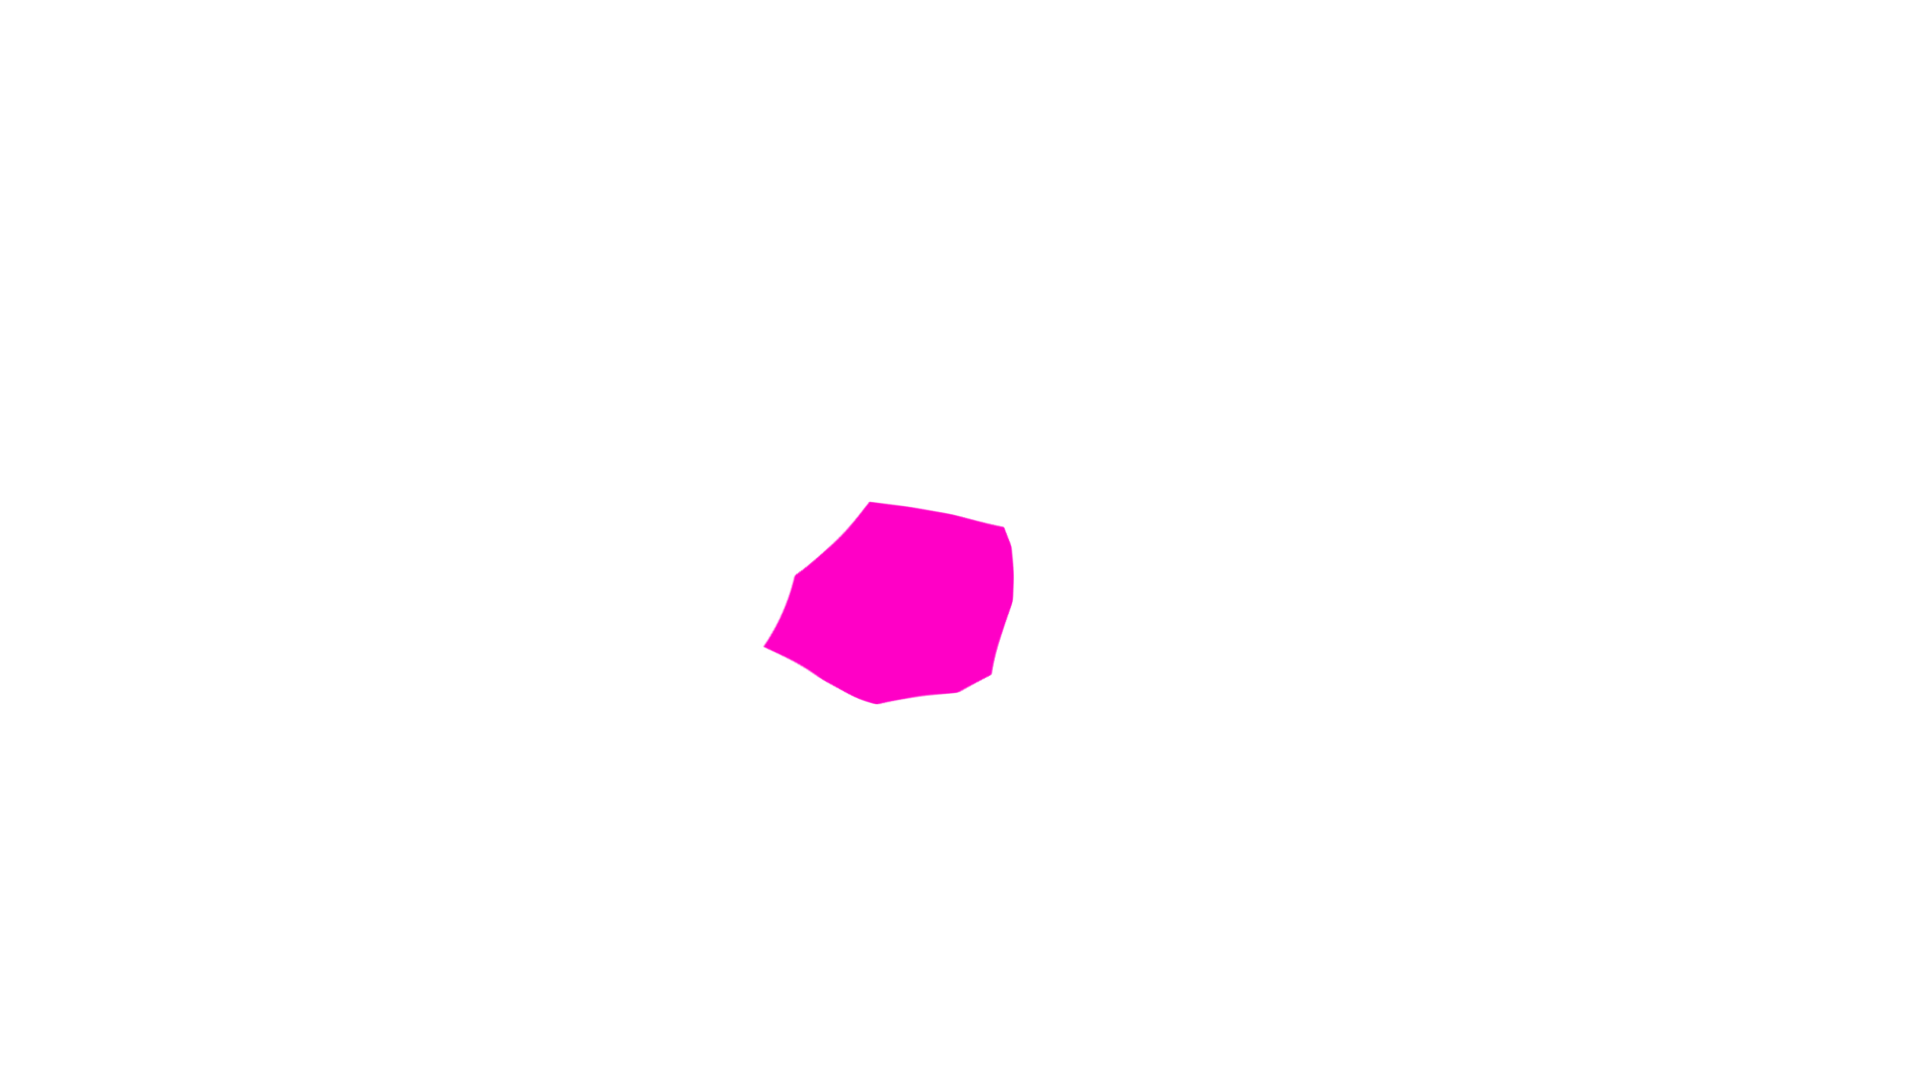
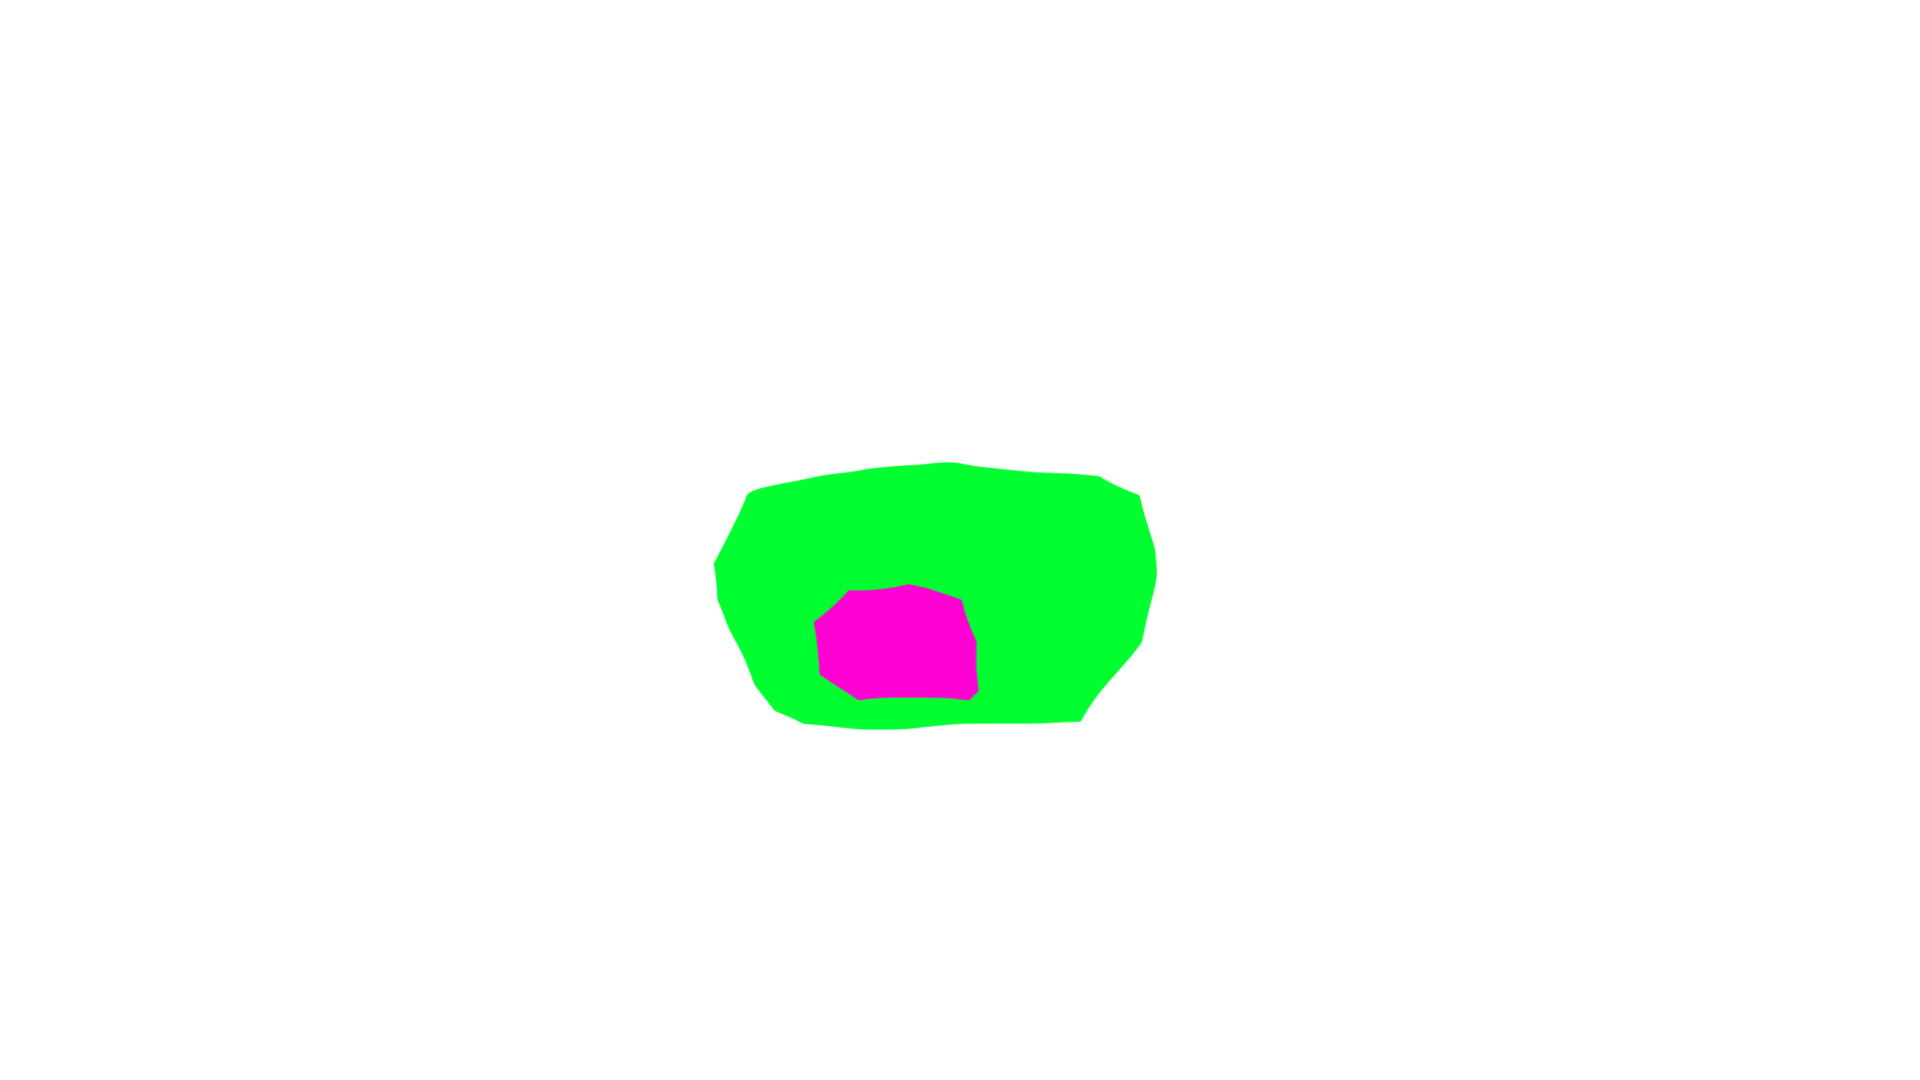
bug fixes for food scan audio

Changed region(s): [[0.375, 0.4278, 0.625, 0.7028]]

diff --git a/Assets/Eli/Scripts/FoodScan.cs b/Assets/Eli/Scripts/FoodScan.cs
@@ -231,7 +231,7 @@ public class FoodScan : MonoBehaviour
             return;
         }
 
-        if (hit.evidenceID == activeRegion.evidenceID)
+        if (IsSameRegion(hit, activeRegion))
         {
             // Same region — keep running.
             switchTimer = 0f;
@@ -270,7 +270,7 @@ public class FoodScan : MonoBehaviour
 
     private void SetActive(MaterialAudioData region)
     {
-        bool isNew = (region.evidenceID != trackedEvidenceID);
+        bool isNew = !IsSameRegion(region, activeRegion);
 
         activeRegion = region;
         hasActive = true;
@@ -289,20 +289,25 @@ public class FoodScan : MonoBehaviour
         // Audio
         if (region.scanSound != null)
         {
-            audioSource.clip = region.scanSound;
             audioSource.volume = Mathf.Clamp01(region.volume * globalVolume);
             audioSource.loop = loopWhileHovering;
 
             if (loopWhileHovering)
             {
-                if (!audioSource.isPlaying)
-                {
-                    audioSource.Play();
-                    loopIsPlaying = true;
-                }
+                // Always stop then restart so the new clip takes effect immediately.
+                // Changing audioSource.clip on a playing source does NOT restart it —
+                // the old clip keeps playing until we call Stop() first.
+                audioSource.Stop();
+                audioSource.clip = region.scanSound;
+                audioSource.Play();
+                loopIsPlaying = true;
             }
             else
             {
+                audioSource.clip = region.scanSound;
+                // Reset the cooldown so the new region's sound plays immediately
+                // instead of being silenced by the previous region's interval.
+                nextOneShotTime = 0f;
                 TryPlayOneShot();
             }
         }
@@ -382,6 +387,25 @@ public class FoodScan : MonoBehaviour
                 Debug.LogWarning("[FoodScan] EvidenceNotebook instance not found in scene.");
         }
     }
+    // ═════════════════════════════════════════════════════════════════════════
+    //  Region identity
+    // ═════════════════════════════════════════════════════════════════════════
+
+    // Two materials are the "same region" if they share both clip and name.
+    // Critically this does NOT rely on evidenceID alone, so entries with a
+    // blank evidenceID field still switch correctly.
+    private static bool IsSameRegion(MaterialAudioData a, MaterialAudioData b)
+    {
+        // If both have a filled-in evidenceID, that is the canonical key.
+        if (!string.IsNullOrEmpty(a.evidenceID) && !string.IsNullOrEmpty(b.evidenceID))
+            return a.evidenceID == b.evidenceID;
+
+        // Fallback: treat entries as identical only when both the clip AND the
+        // material name match. This handles the common case where evidenceID
+        // is left blank for some or all entries.
+        return a.scanSound == b.scanSound && a.materialName == b.materialName;
+    }
+
 
     // ═════════════════════════════════════════════════════════════════════════
     //  Color matching  (hot path — zero allocations)